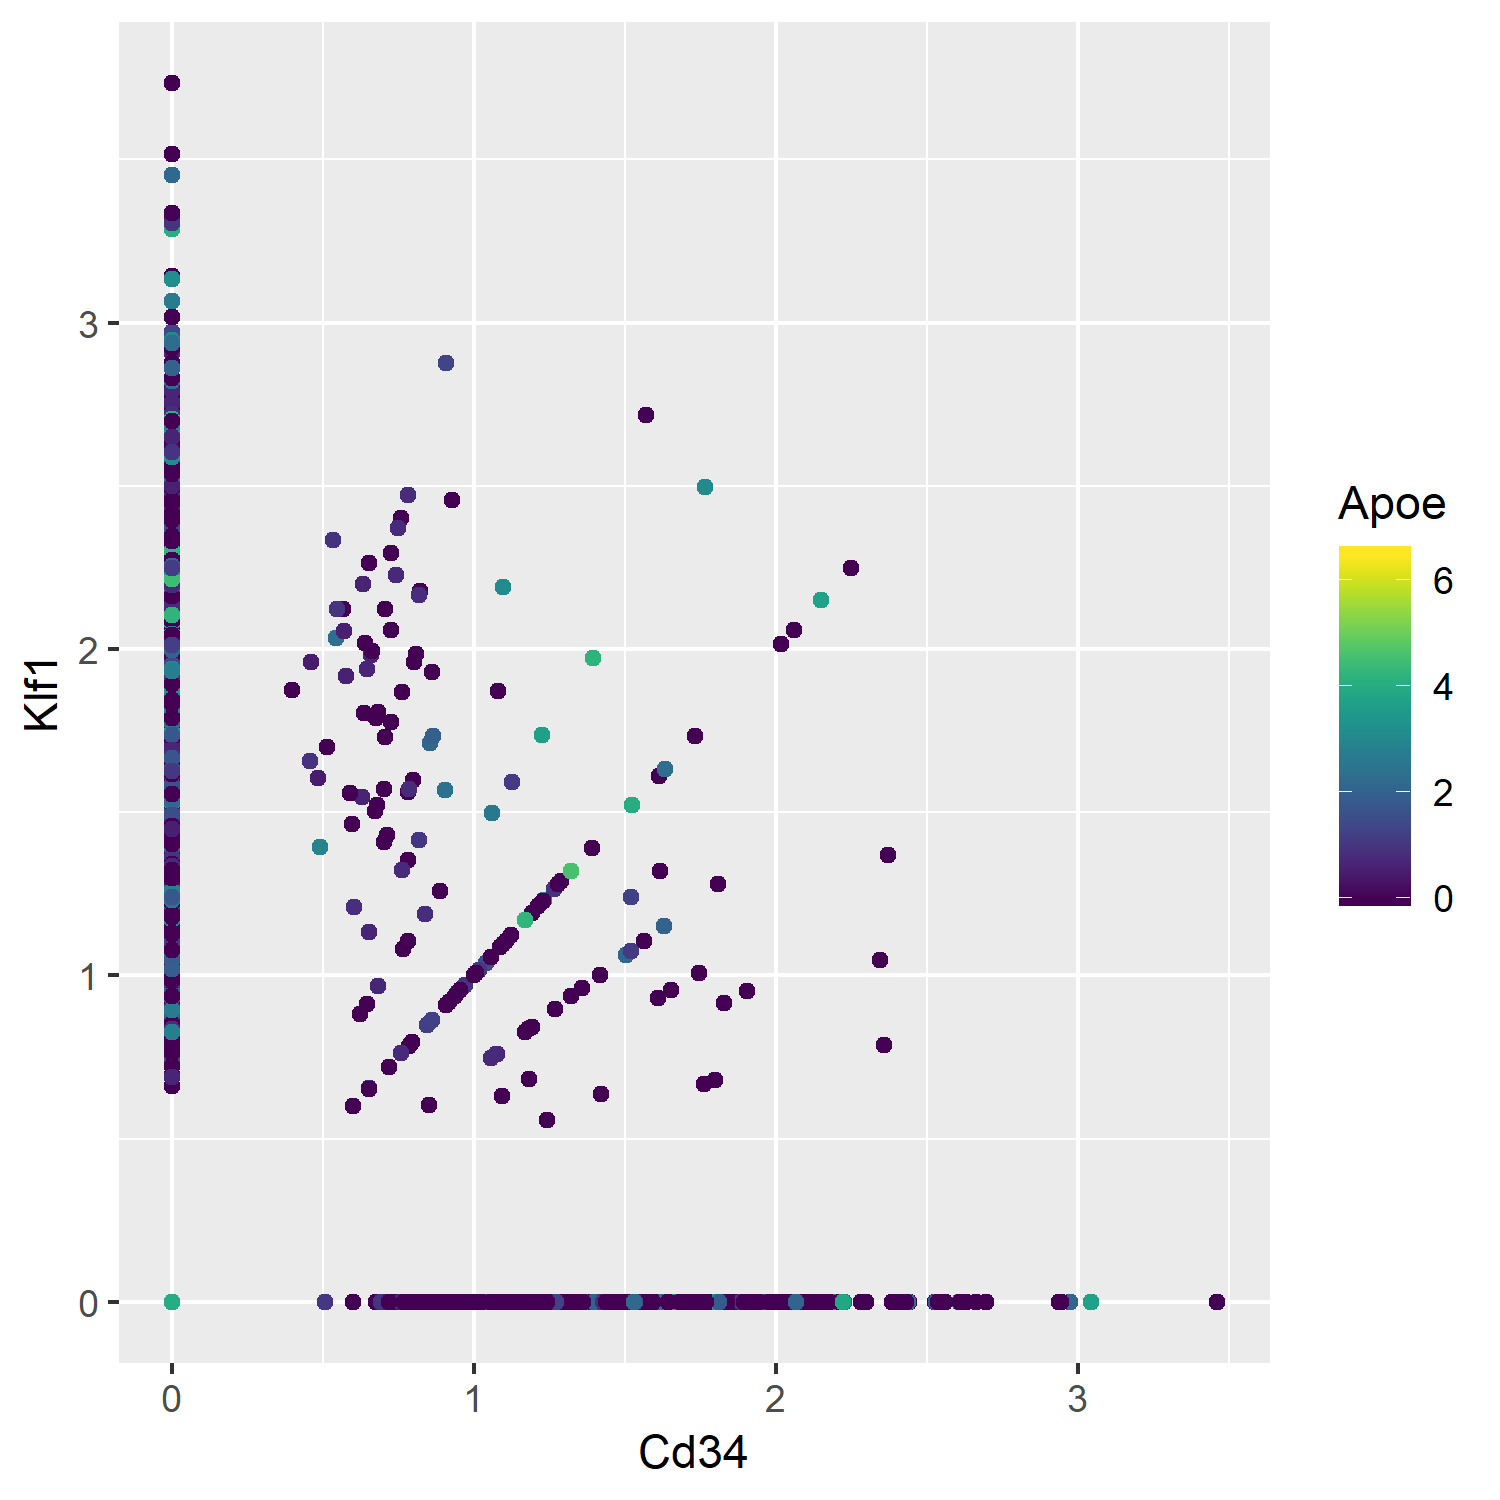
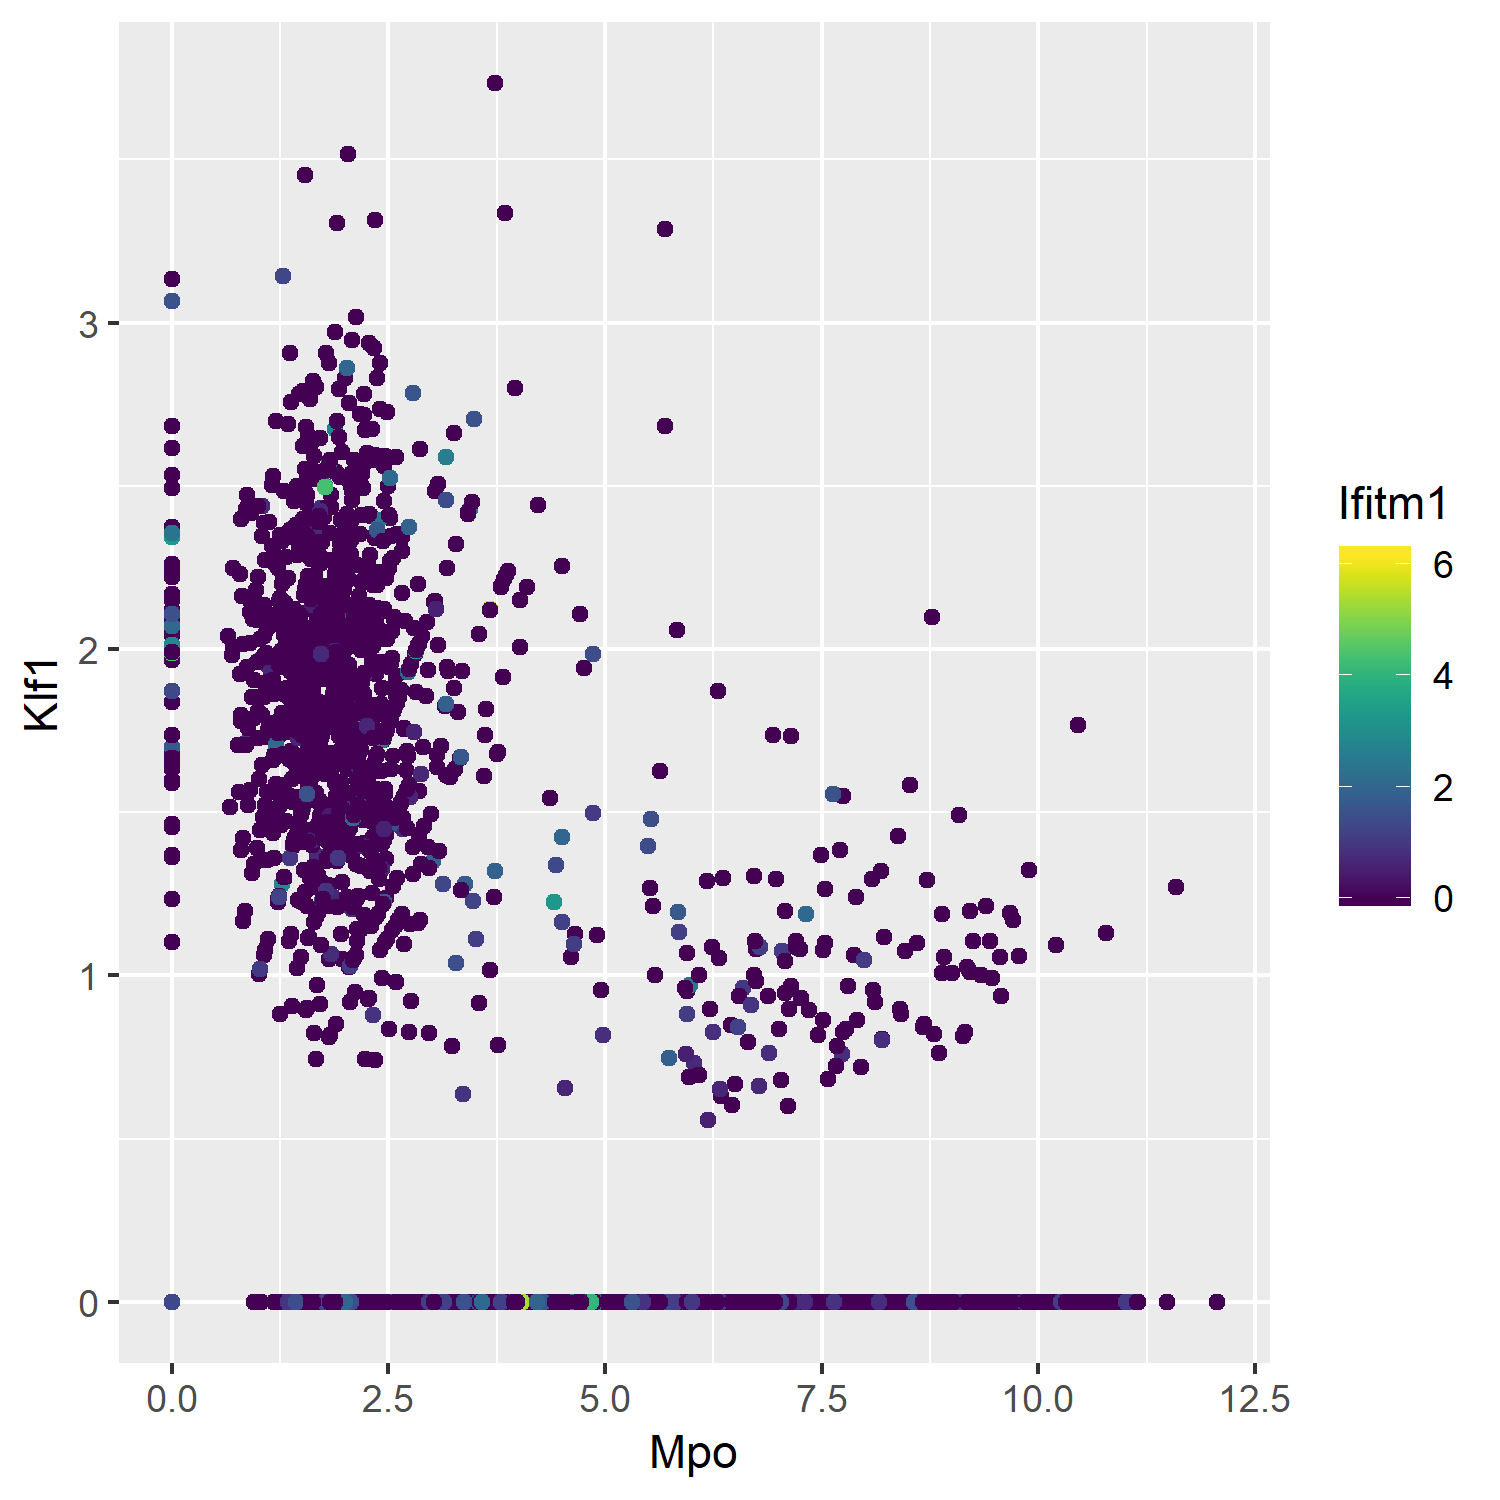
build one tutorial

diff --git a/R/inst/examples/bonemarrow_tutorial.md b/R/inst/examples/bonemarrow_tutorial.md
@@ -1,4 +1,4 @@
-Rmagic Tutorial
+Rmagic Bone Marrow Tutorial
 ================
 
 <!-- README.md is generated from README.Rmd. Please edit that file -->
@@ -19,6 +19,8 @@ gene-gene interactions in single-cell RNA-sequencing data Biorxiv
 
 ### Installation
 
+To use MAGIC, you will need to install both the R and Python packages.
+
 In R, run these commands to install MAGIC and all dependencies:
 
 ``` r
@@ -26,11 +28,19 @@ if (!require(devtools)) install.packages(devtools)
 if (!require(Rmagic)) devtools::install_github("KrishnaswamyLab/magic/R")
 ```
 
+In a terminal, run the following command to install the Pythonn
+repository.
+
+``` bash
+pip install --user git+git://github.com/KrishnaswamyLab/MAGIC.git#subdirectory=python
+```
+
 We’ll install a couple more tools for this tutorial.
 
 ``` r
 if (!require(viridis)) install.packages("viridis")
 if (!require(ggplot2)) install.packages("ggplot2")
+if (!require(readr)) install.packages("readr")
 if (!require(phateR)) install.packages("phateR")
 ```
 
@@ -41,13 +51,21 @@ command line as follows:
 pip install --user phate
 ```
 
-### Running MAGIC
+### Loading packages
 
 We load the Rmagic package and a few others for convenience functions.
 
 ``` r
 library(Rmagic)
+```
+
+    ## Loading required package: Matrix
+
+    ## Warning: package 'Matrix' was built under R version 3.4.4
+
+``` r
 library(ggplot2)
+library(readr)
 library(viridis)
 ```
 
@@ -61,73 +79,70 @@ library(viridis)
 library(phateR)
 ```
 
-    ## Loading required package: Matrix
+    ## 
+    ## Attaching package: 'phateR'
 
-    ## Warning: package 'Matrix' was built under R version 3.4.4
+    ## The following object is masked from 'package:Rmagic':
+    ## 
+    ##     library.size.normalize
 
-The example data is located in the MAGIC Github repository.
+### Loading data
+
+The example data is located in the PHATE Github repository. We can load
+it directly from the web.
 
 ``` r
 # load data
-clusters <- read.csv("../../../data/MAP.csv", row.names=NULL, header=FALSE,
-                     col.names=c('wells', 'clusters'))
-bmmsc <- read.csv("../../../data/BMMC_myeloid.csv.gz", row.names=NULL)
+bmmsc <- read_csv("https://github.com/KrishnaswamyLab/PHATE/raw/master/data/BMMC_myeloid.csv.gz")
+```
+
+    ## Warning: Missing column names filled in: 'X1' [1]
+
+    ## Parsed with column specification:
+    ## cols(
+    ##   .default = col_integer(),
+    ##   X1 = col_character()
+    ## )
+
+    ## See spec(...) for full column specifications.
+
+``` r
 bmmsc <- bmmsc[,2:ncol(bmmsc)]
 bmmsc[1:5,1:10]
 ```
 
-    ##   X0610007C21Rik.Apr3 X0610007L01Rik X0610007P08Rik.Rad26l X0610007P14Rik
-    ## 1                   0              0                     0              0
-    ## 2                   0              0                     0              1
-    ## 3                   0              1                     0              2
-    ## 4                   0              1                     0              1
-    ## 5                   0              0                     1              0
-    ##   X0610007P22Rik X0610008F07Rik X0610009B22Rik X0610009D07Rik
-    ## 1              0              0              0              0
-    ## 2              0              0              0              0
-    ## 3              0              0              0              0
-    ## 4              0              0              0              0
-    ## 5              0              0              0              1
-    ##   X0610009O20Rik X0610010B08Rik.Gm14434.Gm14308
-    ## 1              0                              0
-    ## 2              0                              0
-    ## 3              0                              0
-    ## 4              0                              0
-    ## 5              3                              0
+    ## # A tibble: 5 x 10
+    ##   `0610007C21Rik;Apr~ `0610007L01Rik` `0610007P08Rik;Rad2~ `0610007P14Rik`
+    ##                 <int>           <int>                <int>           <int>
+    ## 1                   0               0                    0               0
+    ## 2                   0               0                    0               1
+    ## 3                   0               1                    0               2
+    ## 4                   0               1                    0               1
+    ## 5                   0               0                    1               0
+    ## # ... with 6 more variables: `0610007P22Rik` <int>, `0610008F07Rik` <int>,
+    ## #   `0610009B22Rik` <int>, `0610009D07Rik` <int>, `0610009O20Rik` <int>,
+    ## #   `0610010B08Rik;Gm14434;Gm14308` <int>
 
-We should normalize the data prior to running MAGIC. For scRNAseq, it is
-always a good idea to library size normalize and then either log or
-square root transform the data. Here, we use square root transform.
+We should library size normalize and transform the data prior to MAGIC.
+Many people use a log transform, which requires adding a “pseudocount”
+to avoid log(0). We square root instead, which has a similar form but
+doesn’t suffer from instabilities at zero.
 
 ``` r
-bmmsc <- phateR::library.size.normalize(bmmsc)
+bmmsc <- library.size.normalize(bmmsc)
 bmmsc <- sqrt(bmmsc)
 ```
 
-Running MAGIC is as simple as running the `run_magic` function. We use
-`rescale_percent=0.99` to make the output range comparable to the input,
+### Running MAGIC
+
+Running MAGIC is as simple as running the `magic` function. We use
+`rescale_percent=99` to make the output range comparable to the input,
 but this is not strictly necessary for downstream analysis.
 
 ``` r
 # run MAGIC
-bmmsc_MAGIC <- run_magic(bmmsc, rescale_percent=0.99)
+bmmsc_MAGIC <- magic(bmmsc, genes=c("Mpo", "Klf1", "Ifitm1"), rescale_percent=99)
 ```
-
-    ## [1] "Library size normalization"
-    ## [1] "PCA"
-    ## [1] "Computing distances"
-    ## [1] "Adapting sigma"
-    ## [1] "Symmetrize distances"
-    ## [1] "Computing kernel"
-    ## [1] "Markov normalization"
-    ## [1] "Diffusing"
-    ## [1] "Computing optimal t"
-    ## ...............
-    ***************
-    ## [1] "Optimal t = 4"
-
-    ## [1] "Imputing"
-    ## [1] "Rescaling"
 
 ### Results
 
@@ -135,11 +150,11 @@ We can plot the data before and after MAGIC to visualize the results.
 
 ``` r
 ggplot(bmmsc) +
-  geom_point(aes(Cd34, Klf1, colour=Apoe)) + 
+  geom_point(aes(Mpo, Klf1, colour=Ifitm1)) + 
   scale_colour_viridis()
 ```
 
-![](bonemarrow_tutorial_files/figure-gfm/unnamed-chunk-8-1.png)<!-- -->
+![](bonemarrow_tutorial_files/figure-gfm/plot_raw-1.png)<!-- -->
 
 ``` r
 ggsave('BMMSC_data_R_before_magic.png', width=5, height=5)
@@ -154,7 +169,7 @@ ggplot(bmmsc_MAGIC) +
   scale_colour_viridis()
 ```
 
-![](bonemarrow_tutorial_files/figure-gfm/unnamed-chunk-9-1.png)<!-- -->
+![](bonemarrow_tutorial_files/figure-gfm/plot_magic-1.png)<!-- -->
 
 ``` r
 ggsave('BMMSC_data_R_after_magic.png', width=5, height=5)
@@ -165,19 +180,50 @@ MAGIC. These relationships also match the biological progression we
 expect to see - Ifitm1 is a stem cell marker, Klf1 is an erythroid
 marker, and Mpo is a myeloid marker.
 
+We can look at the entire smoothed matrix with `genes='all_genes'`,
+passing the original result to the argument `init` to avoid recomputing
+intermediate steps. Note that this matrix may be large and could take up
+a lot of
+memory.
+
+``` r
+bmmsc_MAGIC <- magic(bmmsc, genes="all_genes", rescale_percent=99, init=bmmsc_MAGIC)
+as.data.frame(bmmsc_MAGIC)[1:5, 1:10]
+```
+
+    ##   0610007C21Rik;Apr3 0610007L01Rik 0610007P08Rik;Rad26l 0610007P14Rik
+    ## 1           1.860502      1.690168            1.1373480      1.905561
+    ## 2           2.109082      2.176668            0.9942011      2.040323
+    ## 3           2.156509      2.015408            2.0982907      2.276530
+    ## 4           2.137702      2.262988            1.0380500      2.076257
+    ## 5           2.066830      1.971425            1.9921411      2.203174
+    ##   0610007P22Rik 0610008F07Rik 0610009B22Rik 0610009D07Rik 0610009O20Rik
+    ## 1      1.262215             0      1.416935     0.9999595      1.498086
+    ## 2      1.278548             0      1.295572     1.0363637      1.207875
+    ## 3      1.966309             0      1.844326     1.7560429      2.438793
+    ## 4      1.302293             0      1.320307     1.0774056      1.214317
+    ## 5      1.891680             0      1.723578     1.5698489      2.368597
+    ##   0610010B08Rik;Gm14434;Gm14308
+    ## 1                             0
+    ## 2                             0
+    ## 3                             0
+    ## 4                             0
+    ## 5                             0
+
 ### Visualizing MAGIC values on PHATE
 
 We can visualize the results of MAGIC on PHATE as follows.
+mKIAA1317;Kctd16
 
 ``` r
-bmmsc_PHATE <- phateR::phate(bmmsc)
+bmmsc_PHATE <- phate(bmmsc)
 ggplot(bmmsc_PHATE) +
-  geom_point(aes(x=PHATE1, y=PHATE2, color=bmmsc_MAGIC$Klf1)) +
+  geom_point(aes(x=PHATE1, y=PHATE2, color=bmmsc_MAGIC$result$Klf1)) +
   scale_color_viridis() +
   labs(color="Mpo")
 ```
 
-![](bonemarrow_tutorial_files/figure-gfm/unnamed-chunk-10-1.png)<!-- -->
+![](bonemarrow_tutorial_files/figure-gfm/run_phate-1.png)<!-- -->
 
 ``` r
 ggsave('BMMSC_data_R_phate_colored_by_magic.png', width=5, height=5)
